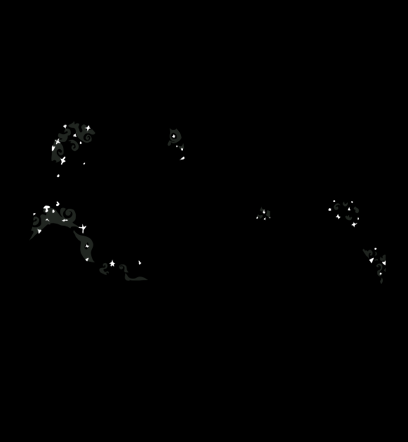
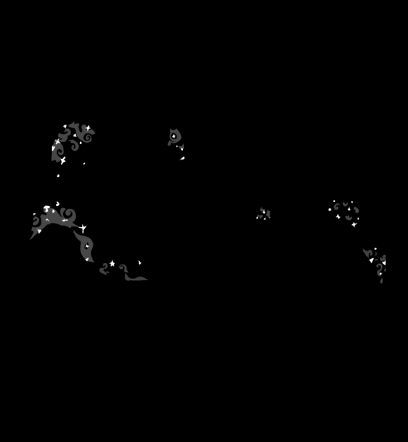
fix : mask emissive changing

diff --git a/src/data/sceneConfig.js b/src/data/sceneConfig.js
@@ -53,7 +53,7 @@ export const SCENE_CONFIG = {
     clickSound: "",
 
     glow: {
-      mask: "/assets/images/emission/vieux_emissive2.png",
+      mask: "/assets/images/emission/elders_emissive2.png",
       emissiveColor: "#0fd15d",
       emissiveIntensity: 4,
     },
@@ -91,6 +91,12 @@ export const SCENE_CONFIG = {
 
     hoverSound: "",
     clickSound: "",
+
+     glow: {
+      mask: "/assets/images/emission/talismanTree_emissive2.png",
+      emissiveColor: "#0fd15d",
+      emissiveIntensity: 4,
+    },
   },
 
   /**
@@ -119,6 +125,12 @@ export const SCENE_CONFIG = {
 
     hoverSound: "",
     clickSound: "",
+
+     glow: {
+      mask: "/assets/images/emission/leader_emissive2.png",
+      emissiveColor: "#0fd15d",
+      emissiveIntensity: 4,
+    },
   },
   INT_SingingMen_Acting : {
     name: "INT_SingingMen",
@@ -127,6 +139,12 @@ export const SCENE_CONFIG = {
 
     hoverSound: "",
     clickSound: "",
+
+     glow: {
+      mask: "/assets/images/emission/acting_emissive2.png",
+      emissiveColor: "#0fd15d",
+      emissiveIntensity: 4,
+    },
   },
   INT_SingingMen_Standing : {
     name: "INT_SingingMen",
@@ -135,6 +153,12 @@ export const SCENE_CONFIG = {
 
     hoverSound: "",
     clickSound: "",
+
+     glow: {
+      mask: "/assets/images/emission/standing_emissive2.png",
+      emissiveColor: "#0fd15d",
+      emissiveIntensity: 4,
+    },
   },
   INT_SingingMen_Sitting : {
     name: "INT_SingingMen",
@@ -143,6 +167,12 @@ export const SCENE_CONFIG = {
 
     hoverSound: "",
     clickSound: "",
+
+     glow: {
+      mask: "/assets/images/emission/sitting_emissive2.png",
+      emissiveColor: "#0fd15d",
+      emissiveIntensity: 4,
+    },
   },
 
   /**
@@ -155,6 +185,12 @@ export const SCENE_CONFIG = {
 
     hoverSound: "",
     clickSound: "",
+
+     glow: {
+      mask: "/assets/images/emission/autel_emissive2.png",
+      emissiveColor: "#0fd15d",
+      emissiveIntensity: 4,
+    },
   },
   INT_Gifts: {
     name: "INT_Gifts",

diff --git a/src/components/character/DialogueBox3D.jsx b/src/components/character/DialogueBox3D.jsx
@@ -2,13 +2,13 @@ import { Text, useTexture } from "@react-three/drei";
 import { useRef } from "react";
 
 export const DialogueBox3D = ({ name, text }) => {
-const texture = useTexture("/assets/ui/2.png");
+const texture = useTexture("/assets/ui/DialogueBloc.png");
   return (
     <group position={[0, -0.9, 0]}> {/* Positionné en bas de l'écran */}
       {/* LE CADRE (L'image blocText.png) */}
       <mesh>
         {/* L'image est large, on garde un ratio de 2:1 environ */}
-        <planeGeometry args={[4.5, 2.2]} /> 
+        <planeGeometry args={[4, 2]} /> 
         <meshBasicMaterial 
           map={texture} 
           transparent={true} 
